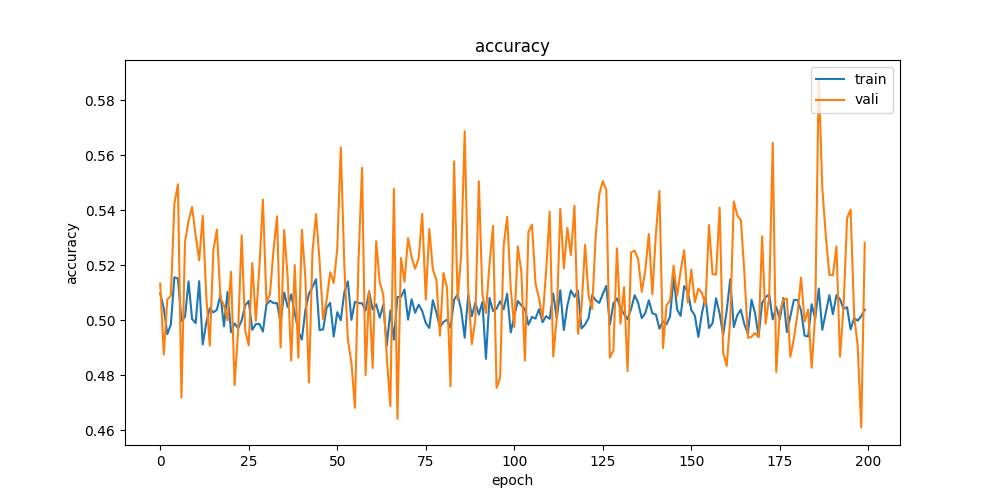
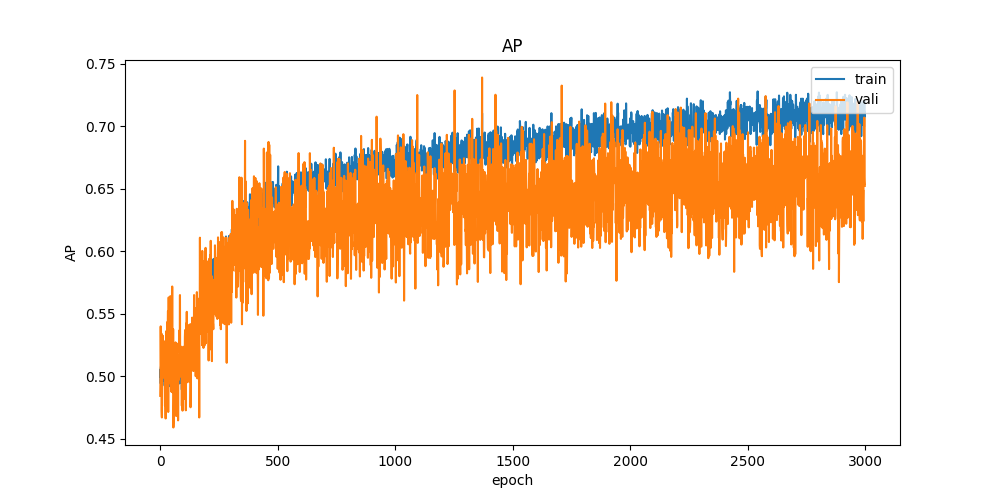
Final Working Version

diff --git a/model.py b/model.py
@@ -9,25 +9,32 @@ import args
 class AVGAE(nn.Module):
     def __init__(self, adj):
         super(AVGAE, self).__init__()
-        self.base_gcn = GraphAttnLayer(
+        # self.base_gcn = GraphAttnLayer(
+        #     args.input_dim, args.hidden1_dim, adj)
+        self.base_gcn = GraphConvSparse(
             args.input_dim, args.hidden1_dim, adj)
-        self.base_gcn1 = GraphAttnLayer(
-            args.hidden1_dim, args.hidden2_dim, adj
-        )
+        # self.feature_extractor = [GraphConvSparse(
+        #     args.hidden_dims[i], args.hidden_dims[i+1], adj) for i in range(0, args.num_feat_layers-1)]
+
+        # self.base_gcn1 = GraphAttnLayer(
+        #     args.hidden1_dim, args.hidden2_dim, adj
+        # )
         self.gcn_mean = GraphAttnLayer(
-            args.hidden2_dim, args.hidden3_dim, adj)
+            args.hidden1_dim, args.hidden2_dim, adj)
         self.gcn_logstddev = GraphAttnLayer(
-            args.hidden2_dim, args.hidden3_dim, adj)
+            args.hidden1_dim, args.hidden2_dim, adj)
         self.adj = adj
 
     def encode(self, X):
         # import pdb
         # pdb.set_trace()
         hidden = self.base_gcn(X)
-        hidden = self.base_gcn1(hidden)
+        # for layer in self.feature_extractor:
+        #     hidden = layer(hidden)
+        # hidden = self.base_gcn1(hidden)
         self.mean = self.gcn_mean(hidden)
         self.logstd = self.gcn_logstddev(hidden)
-        gaussian_noise = torch.randn(X.size(0), args.hidden3_dim)
+        gaussian_noise = torch.randn(X.size(0), args.hidden2_dim)
         sampled_z = gaussian_noise*torch.exp(self.logstd) + self.mean
         return sampled_z
 
@@ -43,8 +50,8 @@ class VGAE(nn.Module):
         self.base_gcn = GraphConvSparse(args.input_dim, args.hidden1_dim, adj)
         self.gcn_mean = GraphConvSparse(
             args.hidden1_dim, args.hidden2_dim, adj, activation=lambda x: x)
-        self.gcn_logstddev = SpGAT(
-            args.hidden1_dim, args.hidden2_dim, args.hidden2_dim, adj)
+        self.gcn_logstddev = GraphConvSparse(
+            args.hidden1_dim, args.hidden2_dim, adj, activation=lambda x: x)
 
     def encode(self, X):
         hidden = self.base_gcn(X)
@@ -61,7 +68,7 @@ class VGAE(nn.Module):
 
 
 class GraphAttnLayer(nn.Module):
-    def __init__(self, input_dim, output_dim, adj, num_heads=8, dropout=0.4, alpha=0.2, activation=F.relu, **kwargs):
+    def __init__(self, input_dim, output_dim, adj, num_heads=1, dropout=0.4, alpha=0.2, activation=F.relu, **kwargs):
         super(GraphAttnLayer, self).__init__(**kwargs)
         self.output_dim = output_dim//num_heads
         self.weights = [glorot_init(input_dim, self.output_dim)

diff --git a/train.py b/train.py
@@ -66,8 +66,9 @@ weight_tensor[weight_mask] = pos_weight
 
 # init model and optimizer
 model = getattr(model, args.model)(adj_norm)
-optimizer = SGD(model.parameters(), lr=args.learning_rate)
-scheduler = CyclicLR(optimizer, base_lr=args.learning_rate, max_lr=0.1)
+optimizer = SGD(model.parameters(), lr=args.learning_rate,
+                momentum=0.9, weight_decay=1e-5)
+scheduler = CyclicLR(optimizer, base_lr=args.learning_rate, max_lr=1)
 
 
 def get_scores(edges_pos, edges_neg, adj_rec):
@@ -117,7 +118,13 @@ for epoch in range(args.num_epoch):
     loss = log_lik = norm * \
         F.binary_cross_entropy(
             A_pred.view(-1), adj_label.to_dense().view(-1), weight=weight_tensor)
+
     if args.model == 'VGAE':
+        kl_divergence = 0.5 / A_pred.size(0) * (
+            1 + 2*model.logstd - model.mean**2 - torch.exp(model.logstd)**2).sum(1).mean()
+        loss -= kl_divergence
+
+    if args.model == 'AVGAE':
         kl_divergence = 0.5 / A_pred.size(0) * (
             1 + 2*model.logstd - model.mean**2 - torch.exp(model.logstd)**2).sum(1).mean()
         loss -= kl_divergence
@@ -143,9 +150,9 @@ plt.figure(figsize=(10, 5))
 plt.plot(l)
 plt.plot(v)
 # plt.plot(epoch)
-plt.title('accuracy')
+plt.title('AP')
 plt.xlabel('epoch')
-plt.ylabel('accuracy')
+plt.ylabel('AP')
 plt.legend(['train', "vali"], loc='upper right')
 plt.savefig('try.png')
 plt.show()

diff --git a/args.py b/args.py
@@ -2,11 +2,15 @@
 dataset = 'cora'
 model = 'AVGAE'
 
-input_dim = 1433
+
+input_dim = 1433  # 500#3703#1433
 hidden1_dim = 32
 hidden2_dim = 16
 hidden3_dim = 8
+hidden_dims = [512, 256, 128, 64, 32, 16, 8]
+num_feat_layers = len(hidden_dims)
+output_dim = 4
 use_feature = True
 
-num_epoch = 1000
-learning_rate = 0.001
+num_epoch = 3000
+learning_rate = 3e-4
